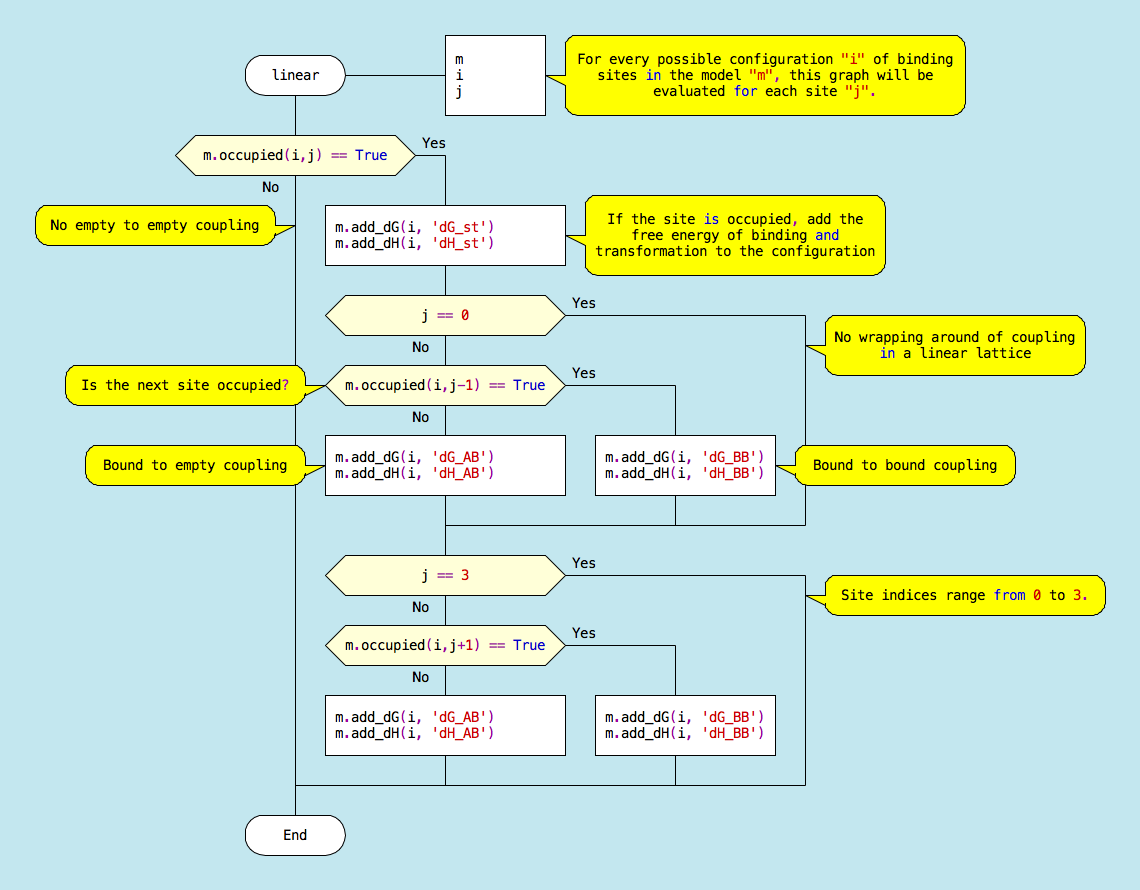
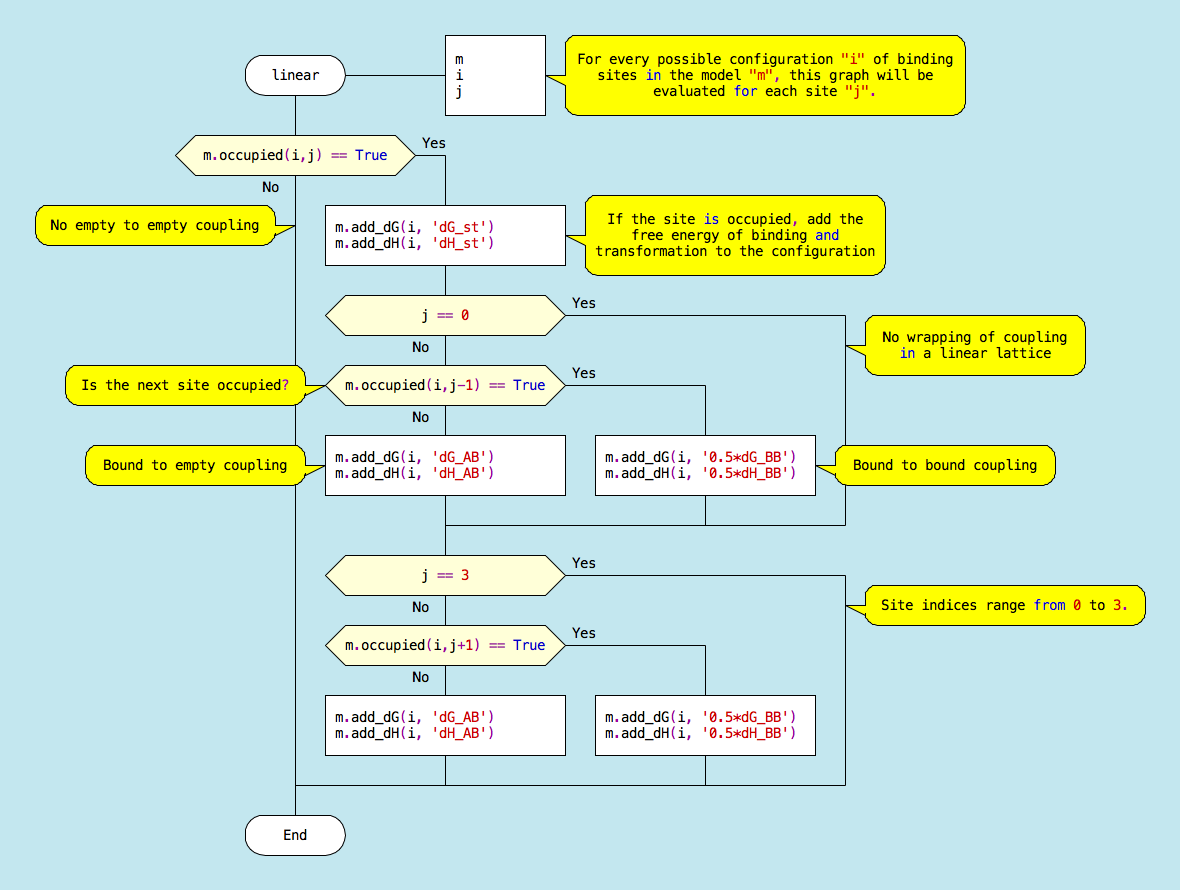
DRAKON eval() support
Added support for eval()-able expressions in add_dG and add_dH methods.

diff --git a/itcsimlib/model_drakon.py b/itcsimlib/model_drakon.py
@@ -93,23 +93,33 @@ class DRAKONIsingModel(Ising):
 				self.configuration(i,*self.configs[i])
 			else:
 				for j in xrange(self.nsites):
-					self.site(i, j)				
+					self.site(i, j)		
 		
 	def add_dG(self, i, dG, dH=None, dCp=None):
 		"""Convenience function for DRAKON models to increment the gibbs free energy of a configuration.
 		This function also permits temperature-dependent van't Hoff correction, if dH and dCp are not None.
+		Alternatively, an expression consisting of existing model parameters may be provided, but this may result in slow model evaluation, as the expression will need to be eval()'d for every configuration. 
 		
 		Arguments
 		---------
 		i : integer
 			The index of the configuration
 		dG : string
-			The name of the free energy change parameter to add to the configuration, or the reference free energy change if dH and dCp are provided.
+			The name of the free energy change parameter to add to the configuration, the reference free energy change if dH and dCp are provided, or an expression of other existing model parameters.
 		dH : string or None
 			The name of the  enthalpy change parameter to use in the van't Hoff correction.
 		dCp : string or None
 			The name of the heat capacity change parameter to use in the van't Hoff correction.
 		"""
+		
+		if dG not in self.params: # expression to evaluate
+			dG_v,dG_s = dG,dG
+			for p in self.params:
+				dG_v = dG_v.replace(p,"self.params['%s']"%p)
+				dG_s = dG_s.replace(p,"self.parameter_symbols['%s']"%p)
+			self.gibbs[i] += eval(dG_v)
+			self.config_expressions[i] += eval(dG_s)
+			return
 		
 		if dH==None or dCp==None:
 			self.gibbs[i] += self.get_param(dG,units="J")
@@ -121,16 +131,23 @@ class DRAKONIsingModel(Ising):
 	def add_dH(self, i, dH, dCp=None):
 		"""Convenience function for DRAKON models to increment the enthalpy of a configuration.
 		This function permits temperature-dependent van't Hoff correction, if dCp is not None.
-		
+		Alternatively, an expression consisting of existing model parameters may be provided, but this may result in slow model execution, as the expression will need to be eval()'d for every configuration. 
+
 		Arguments
 		---------
 		i : integer
 			The index of the configuration			
 		dH : string
-			The name of the enthalpy change parameter to add to the configuration.
+			The name of the enthalpy change parameter to add to the configuration, the reference enthalpy if dCp is provided, or an expression of other existing model parameters.
 		dCp : string or None
 			The name of the heat capacity change parameter to use in the van't Hoff correction.
 		"""
+		
+		if dH not in self.params: # expression to evaluate
+			for p in self.params:
+				dH = dH.replace(p,"self.params['%s']"%p)
+			self.enthalpies[i] += eval(dH)
+			return
 		
 		if dCp==None:
 			self.enthalpies[i] += self.get_param(dH,units="J")

diff --git a/examples/drakon/koshland-1966/koshland_1966.py b/examples/drakon/koshland-1966/koshland_1966.py
@@ -16,8 +16,8 @@ def linear(m, i, j):
             #item 356
             if m.occupied(i,j-1) == True:
                 #item 358
-                m.add_dG(i, 'dG_BB')
-                m.add_dH(i, 'dH_BB')
+                m.add_dG(i, '0.5*dG_BB')
+                m.add_dH(i, '0.5*dH_BB')
             else:
                 #item 357
                 m.add_dG(i, 'dG_AB')
@@ -29,8 +29,8 @@ def linear(m, i, j):
             #item 361
             if m.occupied(i,j+1) == True:
                 #item 363
-                m.add_dG(i, 'dG_BB')
-                m.add_dH(i, 'dH_BB')
+                m.add_dG(i, '0.5*dG_BB')
+                m.add_dH(i, '0.5*dH_BB')
             else:
                 #item 362
                 m.add_dG(i, 'dG_AB')
@@ -58,8 +58,8 @@ def square(m, i, j):
         #item 332
         if m.occupied(i,j-1) == True:
             #item 334
-            m.add_dG(i, 'dG_BB')
-            m.add_dH(i, 'dH_BB')
+            m.add_dG(i, '0.5*dG_BB')
+            m.add_dH(i, '0.5*dH_BB')
         else:
             #item 333
             m.add_dG(i, 'dG_AB')
@@ -67,8 +67,8 @@ def square(m, i, j):
         #item 337
         if m.occupied(i,j+1) == True:
             #item 339
-            m.add_dG(i, 'dG_BB')
-            m.add_dH(i, 'dH_BB')
+            m.add_dG(i, '0.5*dG_BB')
+            m.add_dH(i, '0.5*dH_BB')
         else:
             #item 338
             m.add_dG(i, 'dG_AB')
@@ -93,8 +93,8 @@ def tetrahedral(m, i, j):
                 #item 409
                 if m.occupied(i,counter) == True:
                     #item 412
-                    m.add_dG(i, 'dG_BB')
-                    m.add_dH(i, 'dH_BB')
+                    m.add_dG(i, '0.5*dG_BB')
+                    m.add_dH(i, '0.5*dH_BB')
                 else:
                     #item 411
                     m.add_dG(i, 'dG_AB')
@@ -129,7 +129,7 @@ class Model(DRAKONIsingModel):
 
     def site(self, i, j):
         #item 428
-        type = "linear"
+        type = "tetrahedral"
         #item 4210001
         if type == "tetrahedral":
             #item 438

diff --git a/examples/drakon/koshland-1966/run.py b/examples/drakon/koshland-1966/run.py
@@ -1,7 +1,3 @@
-import sys
-sys.path.append("/Users/elihuihms/Sync/Research/itcsimlib-master/")
-sys.path.append("/Users/elihuihms/Sync/Research/itcsimlib-master/examples/drakon/koshland-1966/")
-
 import sympy
 
 from itcsimlib import *
